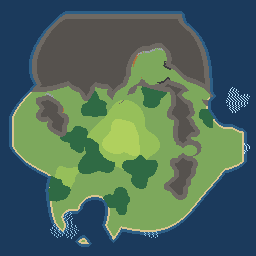
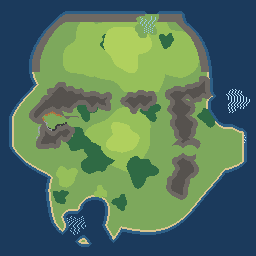
docs: B-2マップv2（枯渇するスターター母港・西の山間鉱山・北は約束の土地）

diff --git a/GPT/game/shioji/design/map_b2/generate_b2_map.py b/GPT/game/shioji/design/map_b2/generate_b2_map.py
@@ -39,61 +39,73 @@ island[:14, :] = False; island[-12:, :] = False
 island[:, :12] = False; island[:, -12:] = False
 
 terrain = np.full((N, N), SEA, dtype=np.int16)
-terrain[island] = GRASS
+terrain[island] = GRASS  # islandはこの後の北の潟の切除で更新される
 
 # ── 2. 山塊（通行不可）──
 mountains = np.zeros((N, N), bool)
-# 北の大山塊: 島の北側を横断し、鉱山ポケットを抱く
-for cx, cy, r in [(70, 66, 22), (100, 60, 26), (132, 52, 26), (164, 52, 26), (196, 66, 24),
-                  (214, 90, 18), (84, 84, 13), (120, 84, 16), (176, 78, 16)]:
-    mountains |= blob(cx, cy, r, wobble=0.16)
-# 北の稜線は海まで落とす(海岸の抜け道を作らない——峠だけが通り道の担保)
-ridge_line = 86 + (np.sin(xx * 0.045) * 7).astype(int)
-mountains |= island & (yy < ridge_line)
-# 鉱山ポケット(盆地状に山を抜く)
-pocket = blob(150, 66, 18, wobble=0.12)
-mountains &= ~pocket
-# 東の海岸山脈: 盆地と漁港を隔てる
+def dilate0(mask, n=1):
+    out = mask.copy()
+    for _ in range(n):
+        out = out | np.roll(out, 1, 0) | np.roll(out, -1, 0) | np.roll(out, 1, 1) | np.roll(out, -1, 1)
+    return out
+# 北は海際の稜線だけ(内側は広大な盆地に明け渡す)。稜線は海岸から8タイル幅
+north_rim = island & dilate0(~island, 8) & (yy < 72)
+mountains |= north_rim
+# 北の潟(わずかな海): 稜線を切って海を招き入れる
+lagoon = blob(148, 22, 10, wobble=0.25) | blob(142, 30, 7, wobble=0.2)
+island_cut = lagoon
+# 中央盆地と北の大盆地を分ける丘陵(2つの広い口を開ける)
+hill_line = np.zeros((N, N), bool)
+for cx, cy, r in [(58, 94, 11), (74, 97, 11), (90, 100, 10), (103, 101, 9),
+                  (132, 101, 10), (146, 99, 10),
+                  (176, 95, 10), (192, 92, 10), (206, 88, 11), (218, 84, 10)]:
+    hill_line |= blob(cx, cy, r, wobble=0.16)
+mountains |= hill_line          # 北への門: x≈110-124(西口) と x≈154-168(東口)の2つだけ
+# 東の海岸山脈: 盆地と漁港を隔てる(v1のまま)
 for cx, cy, r in [(180, 108, 13), (184, 128, 13), (186, 148, 13), (184, 168, 13), (178, 186, 12)]:
     mountains |= blob(cx, cy, r, wobble=0.14)
-# 南西の小山脈(西の鉱脈候補を抱く)
-for cx, cy, r in [(48, 108, 13), (58, 124, 11)]:
+# 西の山地(山間鉱山の新しい家): ポケットを抱く峠ロックの小山塊
+for cx, cy, r in [(46, 112, 15), (60, 100, 13), (64, 126, 13), (48, 138, 12)]:
     mountains |= blob(cx, cy, r, wobble=0.15)
-# 峠を切る(山を貫く回廊。これが唯一の通り道)
+pocket = blob(52, 120, 9, wobble=0.12)
+mountains &= ~pocket
+# 峠(山を貫く回廊が唯一の道)
 def corridor(x0, y0, x1, y1, width=4):
     steps = int(max(abs(x1-x0), abs(y1-y0))) * 2 + 1
     mask = np.zeros((N, N), bool)
     for t in np.linspace(0, 1, steps):
         cx, cy = x0 + (x1-x0)*t, y0 + (y1-y0)*t
-        w = width * (1 + 0.35*np.sin(t*9))   # 幅が揺れる自然な峠道
+        w = width * (1 + 0.35*np.sin(t*9))
         mask |= (np.hypot(xx-cx, yy-cy) < w)
     return mask
 passes = np.zeros((N, N), bool)
-passes |= corridor(116, 100, 138, 74)     # P1: 盆地→鉱山(南口)
-passes |= corridor(206, 96, 164, 70)      # P2: 漁港→鉱山(東口)
-passes |= corridor(172, 150, 192, 150)    # P3: 盆地→漁港
+passes |= corridor(78, 122, 56, 120)      # P1: 平野→西の鉱山
+passes |= corridor(172, 150, 192, 150)    # P2: 盆地→漁港
 mountains &= ~passes
+island &= ~island_cut
 mountains &= island
 terrain[mountains] = MOUNTAIN
 
 # ── 3. 肥沃度(畑適地) ──
-fert1 = blob(122, 138, 33, wobble=0.13) & island & ~mountains          # 中央盆地
-fert2core = blob(122, 138, 18, wobble=0.15) & fert1
-fert_sw = blob(66, 176, 11, wobble=0.18) & island & ~mountains          # 第二の盆地(近いが狭い)
-terrain[fert1 | fert_sw] = FERT1
-terrain[fert2core] = FERT2
-
+fert1 = blob(122, 138, 30, wobble=0.13) & island & ~mountains            # 中央盆地
+fert2core = blob(122, 138, 15, wobble=0.15) & fert1
+north_basin = (blob(130, 48, 46, wobble=0.12) | blob(90, 52, 26, wobble=0.15) | blob(180, 52, 24, wobble=0.15))
+north_basin &= island & ~mountains & (yy < 92)
+fert2north = blob(126, 46, 22, wobble=0.15) & north_basin                # 北のコアは中央より広い
+fert_sw = blob(66, 176, 10, wobble=0.18) & island & ~mountains           # 第二の盆地(近いが狭い)
+fert_port = blob(100, 192, 6, wobble=0.2) & island & ~mountains          # 母港のわずかな畑(人口150の上限の根拠)
+terrain[fert1 | fert_sw | north_basin | fert_port] = FERT1
+terrain[fert2core | fert2north] = FERT2
 # ── 4. 森(燃料と木材・前線が動く場) ──
 forest = np.zeros((N, N), bool)
-for cx, cy, r in [(96, 158, 17), (140, 170, 15), (76, 138, 12),          # 盆地の南縁の帯
-                  (56, 190, 12), (118, 200, 12),                          # 母港圏の際
-                  (94, 106, 12), (152, 96, 11), (208, 116, 9),           # 山裾
-                  (160, 40, 10), (128, 34, 9)]:                           # 北の斜面
+for cx, cy, r in [(96, 158, 15), (140, 170, 14), (78, 140, 11),          # 盆地の南縁の帯
+                  (120, 202, 7), (60, 196, 7),                            # 母港の小さな森(約3年で尽きる較正)
+                  (86, 108, 10), (150, 110, 9), (208, 116, 9),           # 丘陵の裾
+                  (108, 42, 8), (166, 40, 7)]:                             # 北の少しの木
     forest |= blob(cx, cy, r, wobble=0.2)
-forest &= island & ~mountains & ~fert2core & ~pocket
-forest &= ~(blob(122, 138, 24, wobble=0.1))   # 盆地の耕作コアは開けておく
+forest &= island & ~mountains & ~fert2core & ~fert2north & ~pocket
+forest &= ~(blob(122, 138, 22, wobble=0.1))
 terrain[forest] = FOREST
-
 # ── 5. 砂浜と浅瀬 ──
 def dilate(mask, n=1):
     out = mask.copy()
@@ -116,13 +128,13 @@ def deposit(kind, cx, cy, r, count):
     pick = rng.choice(len(ys), size=min(count, len(ys)), replace=False)
     terrain[ys[pick], xs[pick]] = kind
 
-# 鉱山ポケット(主鉱床: 鉄+石炭+石材が揃う)
-deposit(ORE, 142, 62, 12, 46)
-deposit(COAL, 160, 72, 12, 46)
-deposit(ROCKDEP, 150, 54, 12, 38)
-# 西の鉱脈候補(小・鉄のみ・石炭なし)
-deposit(ORE, 54, 114, 9, 18)
-deposit(ROCKDEP, 48, 102, 8, 14)
+# 西の山間鉱山(主鉱床: 鉄+石炭+石材が揃う・峠P1ロック)
+deposit(ORE, 48, 114, 10, 40)
+deposit(COAL, 58, 128, 10, 40)
+deposit(ROCKDEP, 44, 132, 10, 30)
+# 北の大盆地の少しの鉱床(終盤開発の種)
+deposit(ORE, 96, 60, 8, 12)
+deposit(COAL, 176, 58, 8, 12)
 # 盆地の南の岩場(採石のみ)
 deposit(ROCKDEP, 148, 186, 8, 10)
 
@@ -132,23 +144,24 @@ fish_mid = np.zeros((N, N), bool)
 sea_ok = ~island
 fish_rich |= blob(226, 148, 17, wobble=0.2) & sea_ok      # 漁港沖(豊か)
 fish_rich |= blob(236, 100, 11, wobble=0.2) & sea_ok      # 北東入り江(豊か・遠い候補)
-fish_mid  |= blob(64, 226, 13, wobble=0.2) & sea_ok       # 母港西の入江(中程度=近いが痩せ)
-fish_mid  |= blob(150, 226, 11, wobble=0.2) & sea_ok      # 南岸(中)
+fish_mid  |= blob(76, 224, 9, wobble=0.2) & sea_ok        # 母港の小規模漁場(約3年で痩せる較正)
+fish_mid  |= blob(148, 24, 8, wobble=0.25) & sea_ok       # 北の潟(終盤のわずかな海)
 
 # ── 8. 市場と候補地 ──
 MARKETS = {  # id: (x, y, 名前)
-    1: (92, 206, '母港'),
+    1: (92, 206, '母港(枯渇するスターター)'),
     2: (122, 140, '中央盆地(農耕)'),
     3: (204, 150, '漁港'),
-    4: (150, 66, '山間鉱山'),
+    4: (52, 120, '山間鉱山(西)'),
 }
 CANDIDATES = {
     5: (66, 176, '第二の盆地(近いが狭い)'),
-    6: (64, 222, '近い入江(漁は中程度)'),
-    7: (52, 112, '西の鉱脈(小・石炭なし)'),
+    6: (76, 218, '母港の漁場(小・3年で痩せる)'),
+    7: (128, 52, '北の大盆地(終盤の約束の土地)'),
     8: (236, 104, '北東の入り江(豊か・遠い)'),
+    9: (146, 34, '北の潟(わずかな海)'),
 }
-PASSES = {'P1': (126, 88), 'P2': (188, 84), 'P3': (182, 150)}
+PASSES = {'P1': (66, 121), 'P2': (182, 150)}
 
 # ── 9. 経路検証(BFS: 山と海は通行不可) ──
 passable = island & ~mountains
@@ -187,7 +200,7 @@ for mid, (x, y, name) in {**MARKETS, **CANDIDATES}.items():
 # 峠を塞いだら鉱山に行けないことの確認
 blocked = passable.copy()
 for px, py in PASSES.values():
-    blocked[max(0,py-9):py+9, max(0,px-9):px+9] = False
+    blocked[max(0,py-11):py+11, max(0,px-11):px+11] = False
 def bfs2(grid, sx, sy):
     dist = np.full((N, N), -1, np.int32)
     dq = deque([(sx, sy)]); dist[sy, sx] = 0
